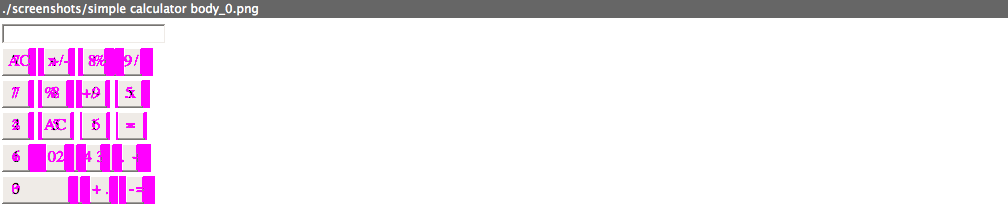
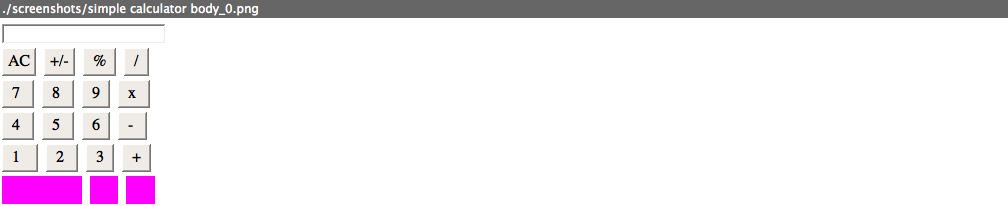
commit

Changed region(s): [[0.0, 0.699, 0.1538, 0.9903], [0.0, 0.233, 0.1538, 0.5243], [0.0, 0.5534, 0.1538, 0.6699]]

diff --git a/backup/result.test.js b/backup/result.test.js
@@ -1,32 +1,21 @@
 const phantomcss = require('phantomcss');
 
-casper.test.begin('Calculator Visual Tests', function ( test ) {
+casper.test.begin( 'Calculator Visual Tests', function ( test ) {
 
     phantomcss.init( {
         rebase: casper.cli.get( "rebase" )
     } );
 
-    // Initialize URL
-    casper.start( 'http://localhost:8080/calculator-rearranged.html' );
-    // Establish resolution
+    casper.start( 'http://localhost:8080/calculator-normal.html' );
+
     casper.viewport( 1024, 768 );
 
-    // Test
-    casper.then( function () {
-        casper.waitForSelector( 'body',
-            function success() {
-                phantomcss.screenshot( 'body', 'simple calculator body');
-            },
-            function timeout() {
-                casper.test.fail( 'Failed to find calculator body' );
-            }
-        );
-    });
-
+    // Calculation Test
     casper.then( function () {
         casper.click( '#one' );
         casper.click( '#plus' );
         casper.click( '#one' );
+
         casper.waitForSelector( '#result',
             function success() {
 

diff --git a/PhantomCSS.md b/PhantomCSS.md
@@ -1,0 +1,42 @@
+1) Install PhantomCSS
+npm install phantomcss
+
+2) Update test script
+ "scripts": {
+    "test": "casperjs test tests/calculator.test.js"
+  },
+
+
+3) Run tests
+npm test
+
+
+
+
+
+
+
+
+
+
+
+
+
+
+
+
+
+
+
+
+
+Demo:
+1) Internal service is on local
+http://localhost:8080/calculator-normal.html
+http://localhost:8080/calculator-rearranged.html
+
+2) Delete last line
+3) Switch to rearranged
+4) Run test:
+npm test tests/calculator.test.js
+npm test tests/result.test.js
